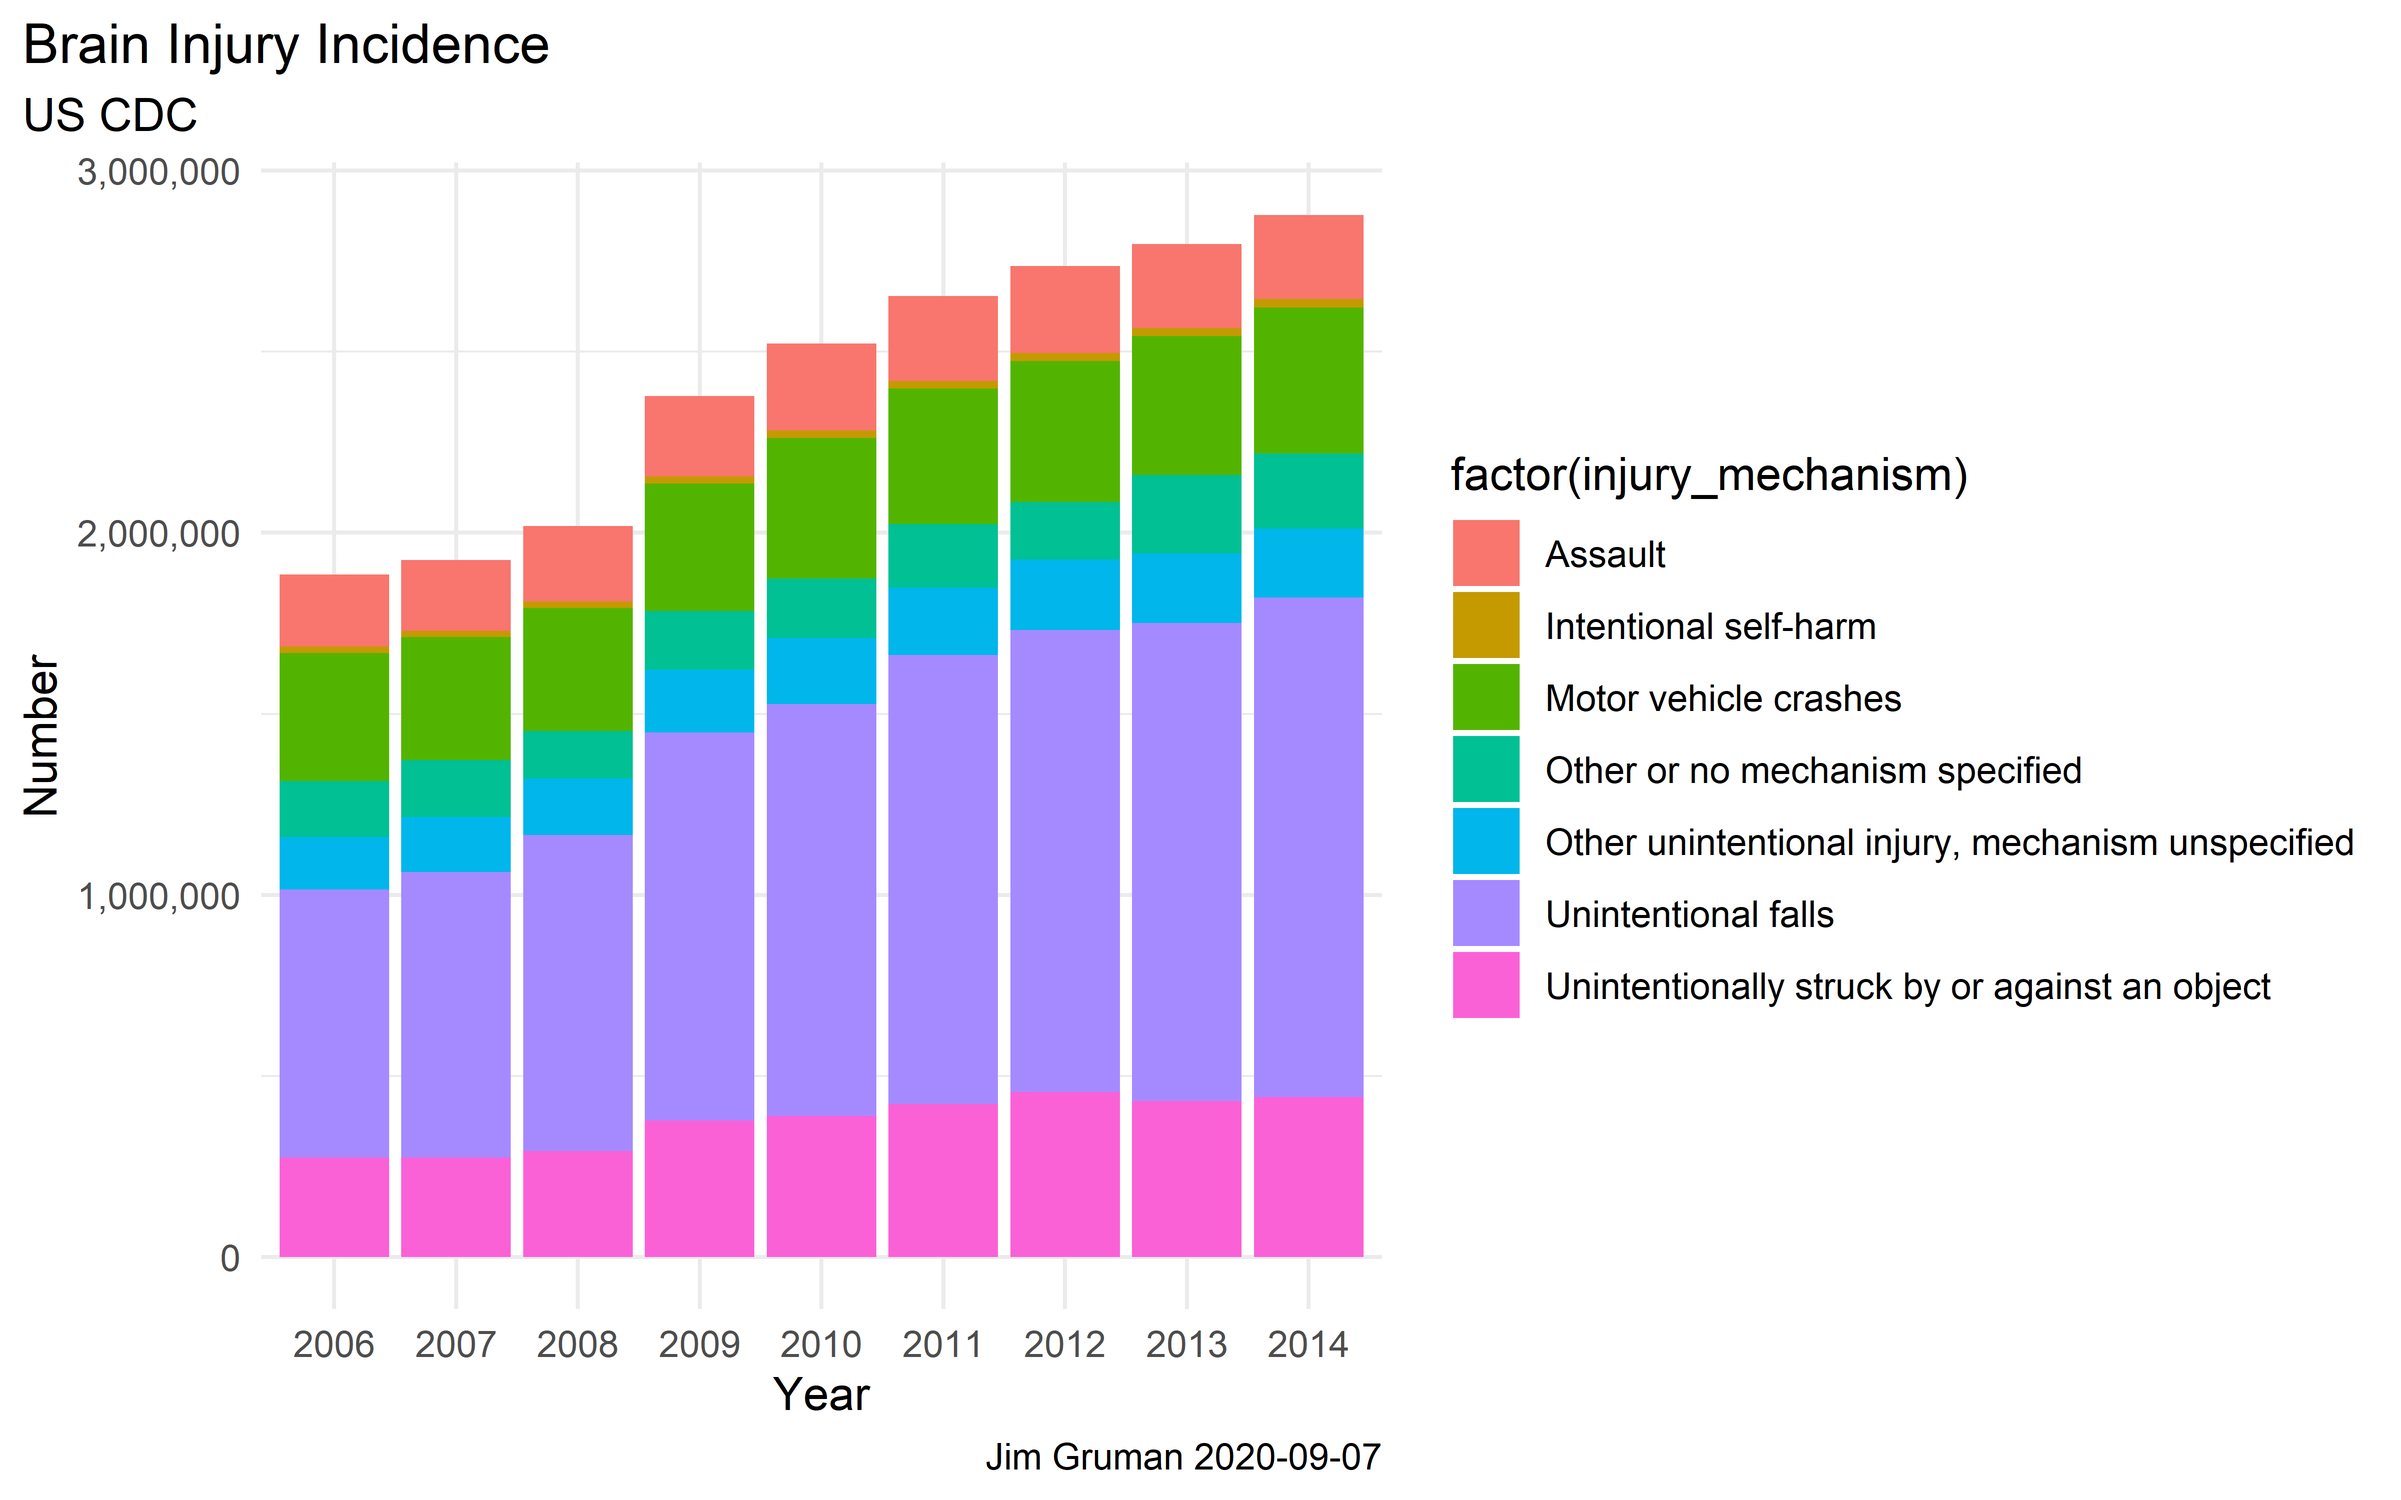
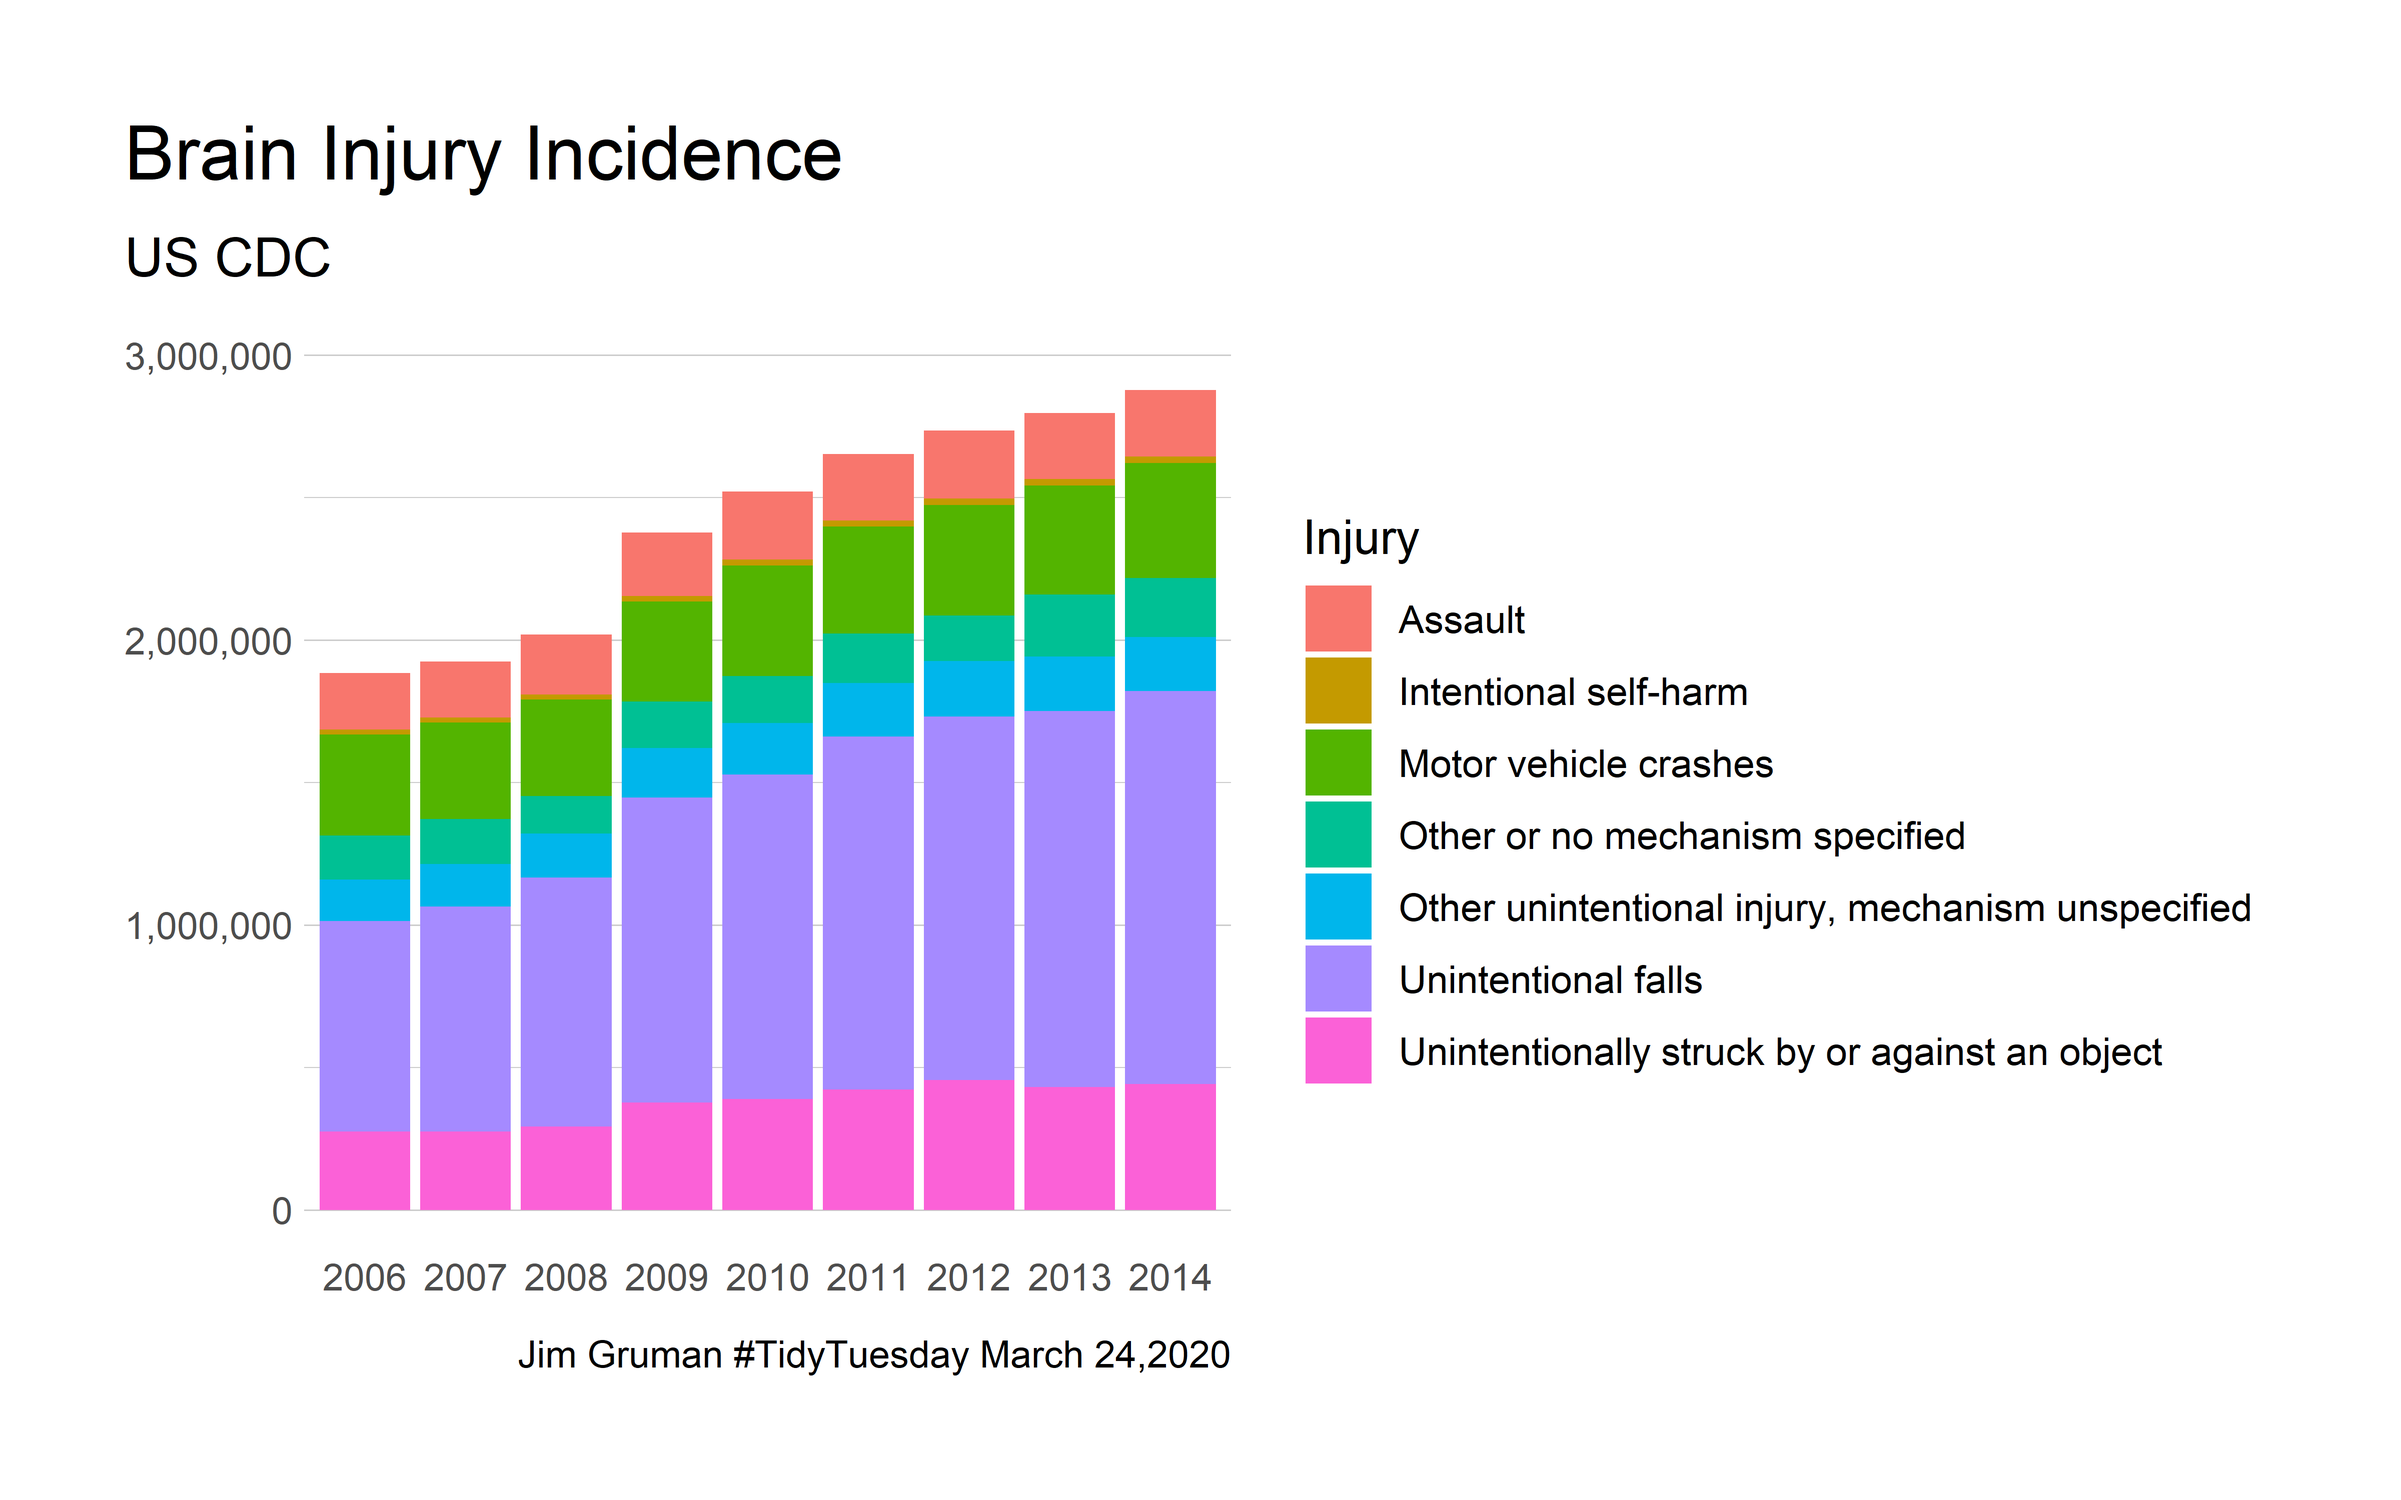
Build site.

diff --git a/docs/BrainInjury.html b/docs/BrainInjury.html
@@ -329,7 +329,7 @@ $(document).ready(function () {
 <div class="tab-content">
 <div id="summary" class="tab-pane fade in active">
 <p>
-<strong>Last updated:</strong> 2020-09-07
+<strong>Last updated:</strong> 2020-09-08
 </p>
 <p>
 <strong>Checks:</strong> <span class="glyphicon glyphicon-ok text-success" aria-hidden="true"></span> 7 <span class="glyphicon glyphicon-exclamation-sign text-danger" aria-hidden="true"></span> 0
@@ -420,16 +420,16 @@ This reproducible <a href="http://rmarkdown.rstudio.com">R Markdown</a> analysis
 <div class="panel panel-default">
 <div class="panel-heading">
 <p class="panel-title">
-<a data-toggle="collapse" data-parent="#workflowr-checks" href="#strongRepositoryversionstrongahrefhttpsgithubcomopus1993myTidyTuesdaytreeef92ba37ea3d61664c533d0e7fe135e02039cbfatargetblankef92ba3a"> <span class="glyphicon glyphicon-ok text-success" aria-hidden="true"></span> <strong>Repository version:</strong> <a href="https://github.com/opus1993/myTidyTuesday/tree/ef92ba37ea3d61664c533d0e7fe135e02039cbfa" target="_blank">ef92ba3</a> </a>
+<a data-toggle="collapse" data-parent="#workflowr-checks" href="#strongRepositoryversionstrongahrefhttpsgithubcomopus1993myTidyTuesdaytree18a7a77c4e9fd4545d76a2de0f2165ba0377cf00targetblank18a7a77a"> <span class="glyphicon glyphicon-ok text-success" aria-hidden="true"></span> <strong>Repository version:</strong> <a href="https://github.com/opus1993/myTidyTuesday/tree/18a7a77c4e9fd4545d76a2de0f2165ba0377cf00" target="_blank">18a7a77</a> </a>
 </p>
 </div>
[2 lines of base64/hex data omitted]
 <div class="panel-body">
 <p>
 Great! You are using Git for version control. Tracking code development and connecting the code version to the results is critical for reproducibility.
 </p>
 <p>
-The results in this page were generated with repository version <a href="https://github.com/opus1993/myTidyTuesday/tree/ef92ba37ea3d61664c533d0e7fe135e02039cbfa" target="_blank">ef92ba3</a>. See the <em>Past versions</em> tab to see a history of the changes made to the R Markdown and HTML files.
+The results in this page were generated with repository version <a href="https://github.com/opus1993/myTidyTuesday/tree/18a7a77c4e9fd4545d76a2de0f2165ba0377cf00" target="_blank">18a7a77</a>. See the <em>Past versions</em> tab to see a history of the changes made to the R Markdown and HTML files.
 </p>
 <p>
 Note that you need to be careful to ensure that all relevant files for the analysis have been committed to Git prior to generating the results (you can use <code>wflow_publish</code> or <code>wflow_git_commit</code>). workflowr only checks the R Markdown file, but you know if there are other scripts or data files that it depends on. Below is the status of the Git repository when the results were generated:
@@ -440,13 +440,14 @@ Ignored files:
     Ignored:    .Rproj.user/
 
 Untracked files:
-    Untracked:  code/studentdebt.R
+    Untracked:  analysis/Friends.Rmd
     Untracked:  figure/BrainInjury.Rmd/
     Untracked:  figure/NFL attendance.Rmd/
     Untracked:  figure/TourDeFrance.Rmd/
+    Untracked:  output/BrainInjurygganimqdodge1.gif
 
 Unstaged changes:
-    Modified:   analysis/GDPRfines.Rmd
+    Modified:   analysis/index.Rmd
 
 </code></pre>
 <p>
@@ -485,6 +486,40 @@ Message
 </tr>
 </thead>
 <tbody>
+<tr>
+<td>
+Rmd
+</td>
+<td>
+<a href="https://github.com/opus1993/myTidyTuesday/blob/18a7a77c4e9fd4545d76a2de0f2165ba0377cf00/analysis/BrainInjury.Rmd" target="_blank">18a7a77</a>
+</td>
+<td>
+opus1993
+</td>
+<td>
+2020-09-08
+</td>
+<td>
+wflow_publish(“analysis/BrainInjury.Rmd”)
+</td>
+</tr>
+<tr>
+<td>
+html
+</td>
+<td>
+<a href="https://rawcdn.githack.com/opus1993/myTidyTuesday/1e82b3b51ae6f9238949043772a2f48fff97068a/docs/BrainInjury.html" target="_blank">1e82b3b</a>
+</td>
+<td>
+opus1993
+</td>
+<td>
+2020-09-07
+</td>
+<td>
+Build site.
+</td>
+</tr>
 <tr>
 <td>
 Rmd
@@ -545,26 +580,14 @@ wflow_publish(“analysis/BrainInjury.Rmd”)
 </div>
 <pre class="r"><code>knitr::opts_chunk$set(warning = FALSE, message = FALSE, 
                       echo = TRUE, dpi = 300, cache.lazy = FALSE,
-                      tidy = &quot;styler&quot;, fig.width = 8, fig.height = 5)
-library(tidymodels)</code></pre>
-<pre><code>Warning: package &#39;broom&#39; was built under R version 4.0.2</code></pre>
-<pre><code>Warning: package &#39;dials&#39; was built under R version 4.0.2</code></pre>
-<pre><code>Warning: package &#39;scales&#39; was built under R version 4.0.2</code></pre>
-<pre><code>Warning: package &#39;dplyr&#39; was built under R version 4.0.2</code></pre>
-<pre><code>Warning: package &#39;ggplot2&#39; was built under R version 4.0.2</code></pre>
-<pre><code>Warning: package &#39;modeldata&#39; was built under R version 4.0.2</code></pre>
-<pre><code>Warning: package &#39;tidyr&#39; was built under R version 4.0.2</code></pre>
-<pre><code>Warning: package &#39;tune&#39; was built under R version 4.0.2</code></pre>
-<pre class="r"><code>library(tidyverse)</code></pre>
-<pre><code>Warning: package &#39;stringr&#39; was built under R version 4.0.2</code></pre>
-<pre class="r"><code>library(vip)</code></pre>
-<pre><code>Warning: package &#39;vip&#39; was built under R version 4.0.2</code></pre>
-<pre class="r"><code>theme_set(theme_minimal())</code></pre>
-<div id="r-markdown" class="section level2">
-<h2>R Markdown</h2>
-<pre class="r"><code># Get the Data
-
-tbi_age &lt;- readr::read_csv(&quot;https://raw.githubusercontent.com/rfordatascience/tidytuesday/master/data/2020/2020-03-24/tbi_age.csv&quot;)
+                      tidy = &quot;styler&quot;, fig.width = 8, fig.height = 5)</code></pre>
+<pre class="r"><code>library(tidymodels)
+library(tidyverse)
+library(vip)
+theme_set(hrbrthemes::theme_ipsum_ps())</code></pre>
+<div id="get-the-data" class="section level2">
+<h2>Get the Data</h2>
+<pre class="r"><code>tbi_age &lt;- readr::read_csv(&quot;https://raw.githubusercontent.com/rfordatascience/tidytuesday/master/data/2020/2020-03-24/tbi_age.csv&quot;)
 tbi_year &lt;- readr::read_csv(&quot;https://raw.githubusercontent.com/rfordatascience/tidytuesday/master/data/2020/2020-03-24/tbi_year.csv&quot;)
 tbi_military &lt;- readr::read_csv(&quot;https://raw.githubusercontent.com/rfordatascience/tidytuesday/master/data/2020/2020-03-24/tbi_military.csv&quot;)</code></pre>
 </div>
@@ -580,13 +603,14 @@ tbi_military &lt;- readr::read_csv(&quot;https://raw.githubusercontent.com/rford
   geom_col() +
   labs(
     title = &quot;Brain Injury Incidence&quot;,
-    subtitle = &quot;US CDC&quot;,
-    caption = paste0(&quot;Jim Gruman &quot;, Sys.Date())
+    subtitle = &quot;US CDC&quot;, fill = &quot;Injury&quot;, y = NULL, x = NULL,
+    caption = paste0(&quot;Jim Gruman &quot;, &quot;#TidyTuesday March 24,2020&quot;)
   ) +
-  theme(plot.title.position = &quot;plot&quot;) +
-  scale_y_continuous(labels = scales::comma) +
-  xlab(&quot;Year&quot;) +
-  ylab(&quot;Number&quot;)</code></pre>
+  theme(
+    plot.title.position = &quot;plot&quot;,
+    panel.grid.major.x = element_blank()
+  ) +
+  scale_y_continuous(labels = scales::comma)</code></pre>
 <p><img src="figure/BrainInjury.Rmd/unnamed-chunk-2-1.png" width="2400" style="display: block; margin: auto;" /></p>
 <pre class="r"><code>library(tidyverse)
 library(gganimate)
@@ -610,11 +634,9 @@ p &lt;- tbi_year %&gt;%
   theme(plot.title.position = &quot;plot&quot;) +
   scale_y_log10(labels = scales::comma)
 
-
-# animate(p,  width = 900, height = 750, end_pause = 50, renderer = gifski_renderer(&quot;docs/figure/BrainInjury.Rmd/gganimqdodge1.gif&quot;))
-
-animate(p, width = 900, height = 750, end_pause = 50)</code></pre>
-<p><img src="figure/BrainInjury.Rmd/gganimqdodge1-1.gif" style="display: block; margin: auto;" /></p>
+animate(p, width = 900, height = 750, end_pause = 50, renderer = gifski_renderer(&quot;output/BrainInjurygganimqdodge1.gif&quot;))</code></pre>
+<p><img src="figure/BrainInjury.Rmd/BrainInjurygganimqdodge1-1.gif" style="display: block; margin: auto;" /></p>
+<p><img src="output/BrainInjurygganimqdodge1.gif" /></p>
 <br>
 <p>
 <button type="button" class="btn btn-default btn-workflowr btn-workflowr-sessioninfo" data-toggle="collapse" data-target="#workflowr-sessioninfo" style="display: block;">
@@ -653,26 +675,27 @@ loaded via a namespace (and not attached):
  [5] fs_1.5.0           rstudioapi_0.11    farver_2.0.3       listenv_0.8.0     
  [9] furrr_0.1.0        prodlim_2019.11.13 fansi_0.4.1        lubridate_1.7.9   
 [13] xml2_1.3.2         codetools_0.2-16   splines_4.0.0      R.methodsS3_1.8.1 
-[17] knitr_1.29         jsonlite_1.7.1     pROC_1.16.2        dbplyr_1.4.4      
-[21] R.oo_1.24.0        compiler_4.0.0     httr_1.4.2         backports_1.1.9   
-[25] assertthat_0.2.1   Matrix_1.2-18      cli_2.0.2          tweenr_1.0.1      
-[29] later_1.1.0.1      prettyunits_1.1.1  htmltools_0.5.0    tools_4.0.0       
-[33] gtable_0.3.0       glue_1.4.2         Rcpp_1.0.5         cellranger_1.1.0  
-[37] styler_1.3.2       DiceDesign_1.8-1   vctrs_0.3.4        iterators_1.0.12  
-[41] timeDate_3043.102  gower_0.2.2        xfun_0.16          globals_0.12.5    
-[45] rvest_0.3.6        lifecycle_0.2.0    future_1.18.0      MASS_7.3-52       
-[49] ipred_0.9-9        hms_0.5.3          promises_1.1.1     parallel_4.0.0    
-[53] rematch2_2.1.2     yaml_2.2.1         curl_4.3           gridExtra_2.3     
-[57] rpart_4.1-15       stringi_1.4.6      foreach_1.5.0      lhs_1.0.2         
-[61] lava_1.6.7         rlang_0.4.7        pkgconfig_2.0.3    evaluate_0.14     
-[65] lattice_0.20-41    labeling_0.3       tidyselect_1.1.0   plyr_1.8.6        
-[69] magrittr_1.5       R6_2.4.1           generics_0.0.2     DBI_1.1.0         
-[73] pillar_1.4.6       haven_2.3.1        whisker_0.4        withr_2.2.0       
-[77] survival_3.2-3     nnet_7.3-14        modelr_0.1.8       crayon_1.3.4      
-[81] rmarkdown_2.3      progress_1.2.2     grid_4.0.0         readxl_1.3.1      
-[85] blob_1.2.1         git2r_0.27.1       reprex_0.3.0       digest_0.6.25     
-[89] R.cache_0.14.0     httpuv_1.5.4       R.utils_2.10.1     GPfit_1.0-8       
-[93] munsell_0.5.0     </code></pre>
+[17] extrafont_0.17     knitr_1.29         jsonlite_1.7.1     pROC_1.16.2       
+[21] Rttf2pt1_1.3.8     dbplyr_1.4.4       R.oo_1.24.0        compiler_4.0.0    
+[25] httr_1.4.2         backports_1.1.9    assertthat_0.2.1   Matrix_1.2-18     
+[29] cli_2.0.2          tweenr_1.0.1       later_1.1.0.1      prettyunits_1.1.1 
+[33] hrbrthemes_0.8.0   htmltools_0.5.0    tools_4.0.0        gtable_0.3.0      
+[37] glue_1.4.2         Rcpp_1.0.5         cellranger_1.1.0   styler_1.3.2      
+[41] DiceDesign_1.8-1   vctrs_0.3.4        extrafontdb_1.0    iterators_1.0.12  
+[45] timeDate_3043.102  gower_0.2.2        xfun_0.16          globals_0.12.5    
+[49] rvest_0.3.6        lifecycle_0.2.0    future_1.18.0      MASS_7.3-52       
+[53] ipred_0.9-9        hms_0.5.3          promises_1.1.1     parallel_4.0.0    
+[57] curl_4.3           yaml_2.2.1         gridExtra_2.3      gdtools_0.2.2     
+[61] rpart_4.1-15       stringi_1.4.6      foreach_1.5.0      lhs_1.0.2         
+[65] cpp11_0.2.1        lava_1.6.7         systemfonts_0.3.0  rlang_0.4.7       
+[69] pkgconfig_2.0.3    evaluate_0.14      lattice_0.20-41    labeling_0.3      
+[73] tidyselect_1.1.0   plyr_1.8.6         magrittr_1.5       R6_2.4.1          
+[77] generics_0.0.2     DBI_1.1.0          pillar_1.4.6       haven_2.3.1       
+[81] whisker_0.4        withr_2.2.0        survival_3.2-3     nnet_7.3-14       
+[85] modelr_0.1.8       crayon_1.3.4       rmarkdown_2.3      progress_1.2.2    
+[89] grid_4.0.0         readxl_1.3.1       blob_1.2.1         git2r_0.27.1      
+[93] reprex_0.3.0       digest_0.6.25      R.cache_0.14.0     httpuv_1.5.4      
+[97] R.utils_2.10.1     GPfit_1.0-8        munsell_0.5.0     </code></pre>
 </div>
 </div>
 
